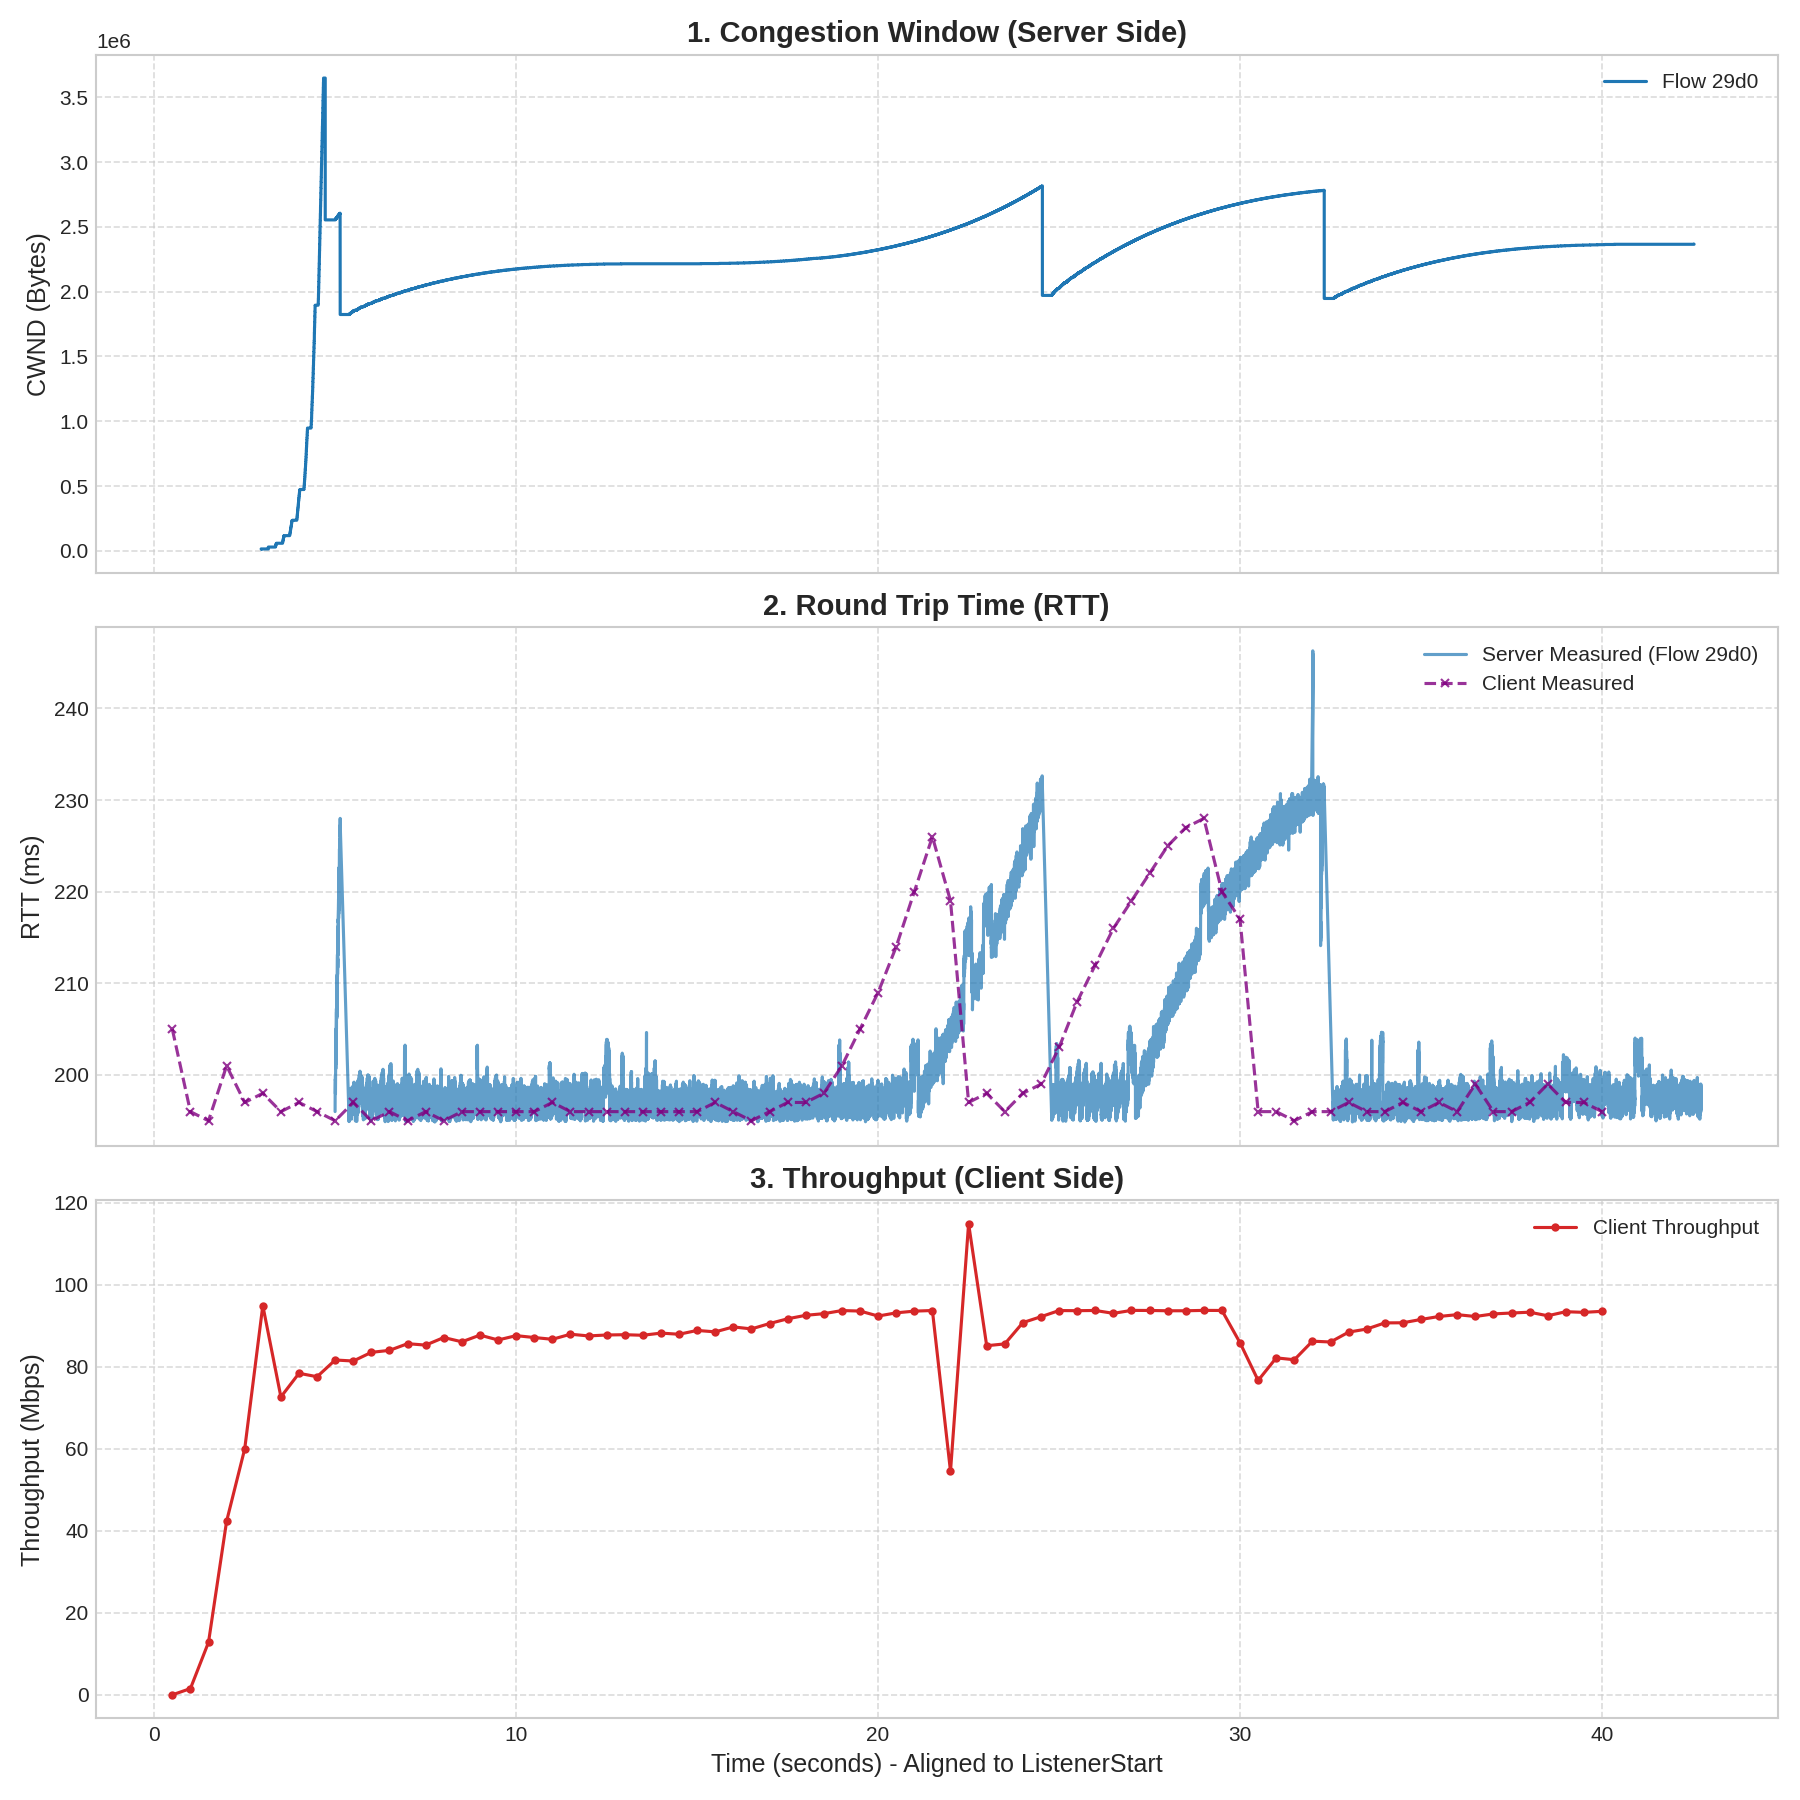
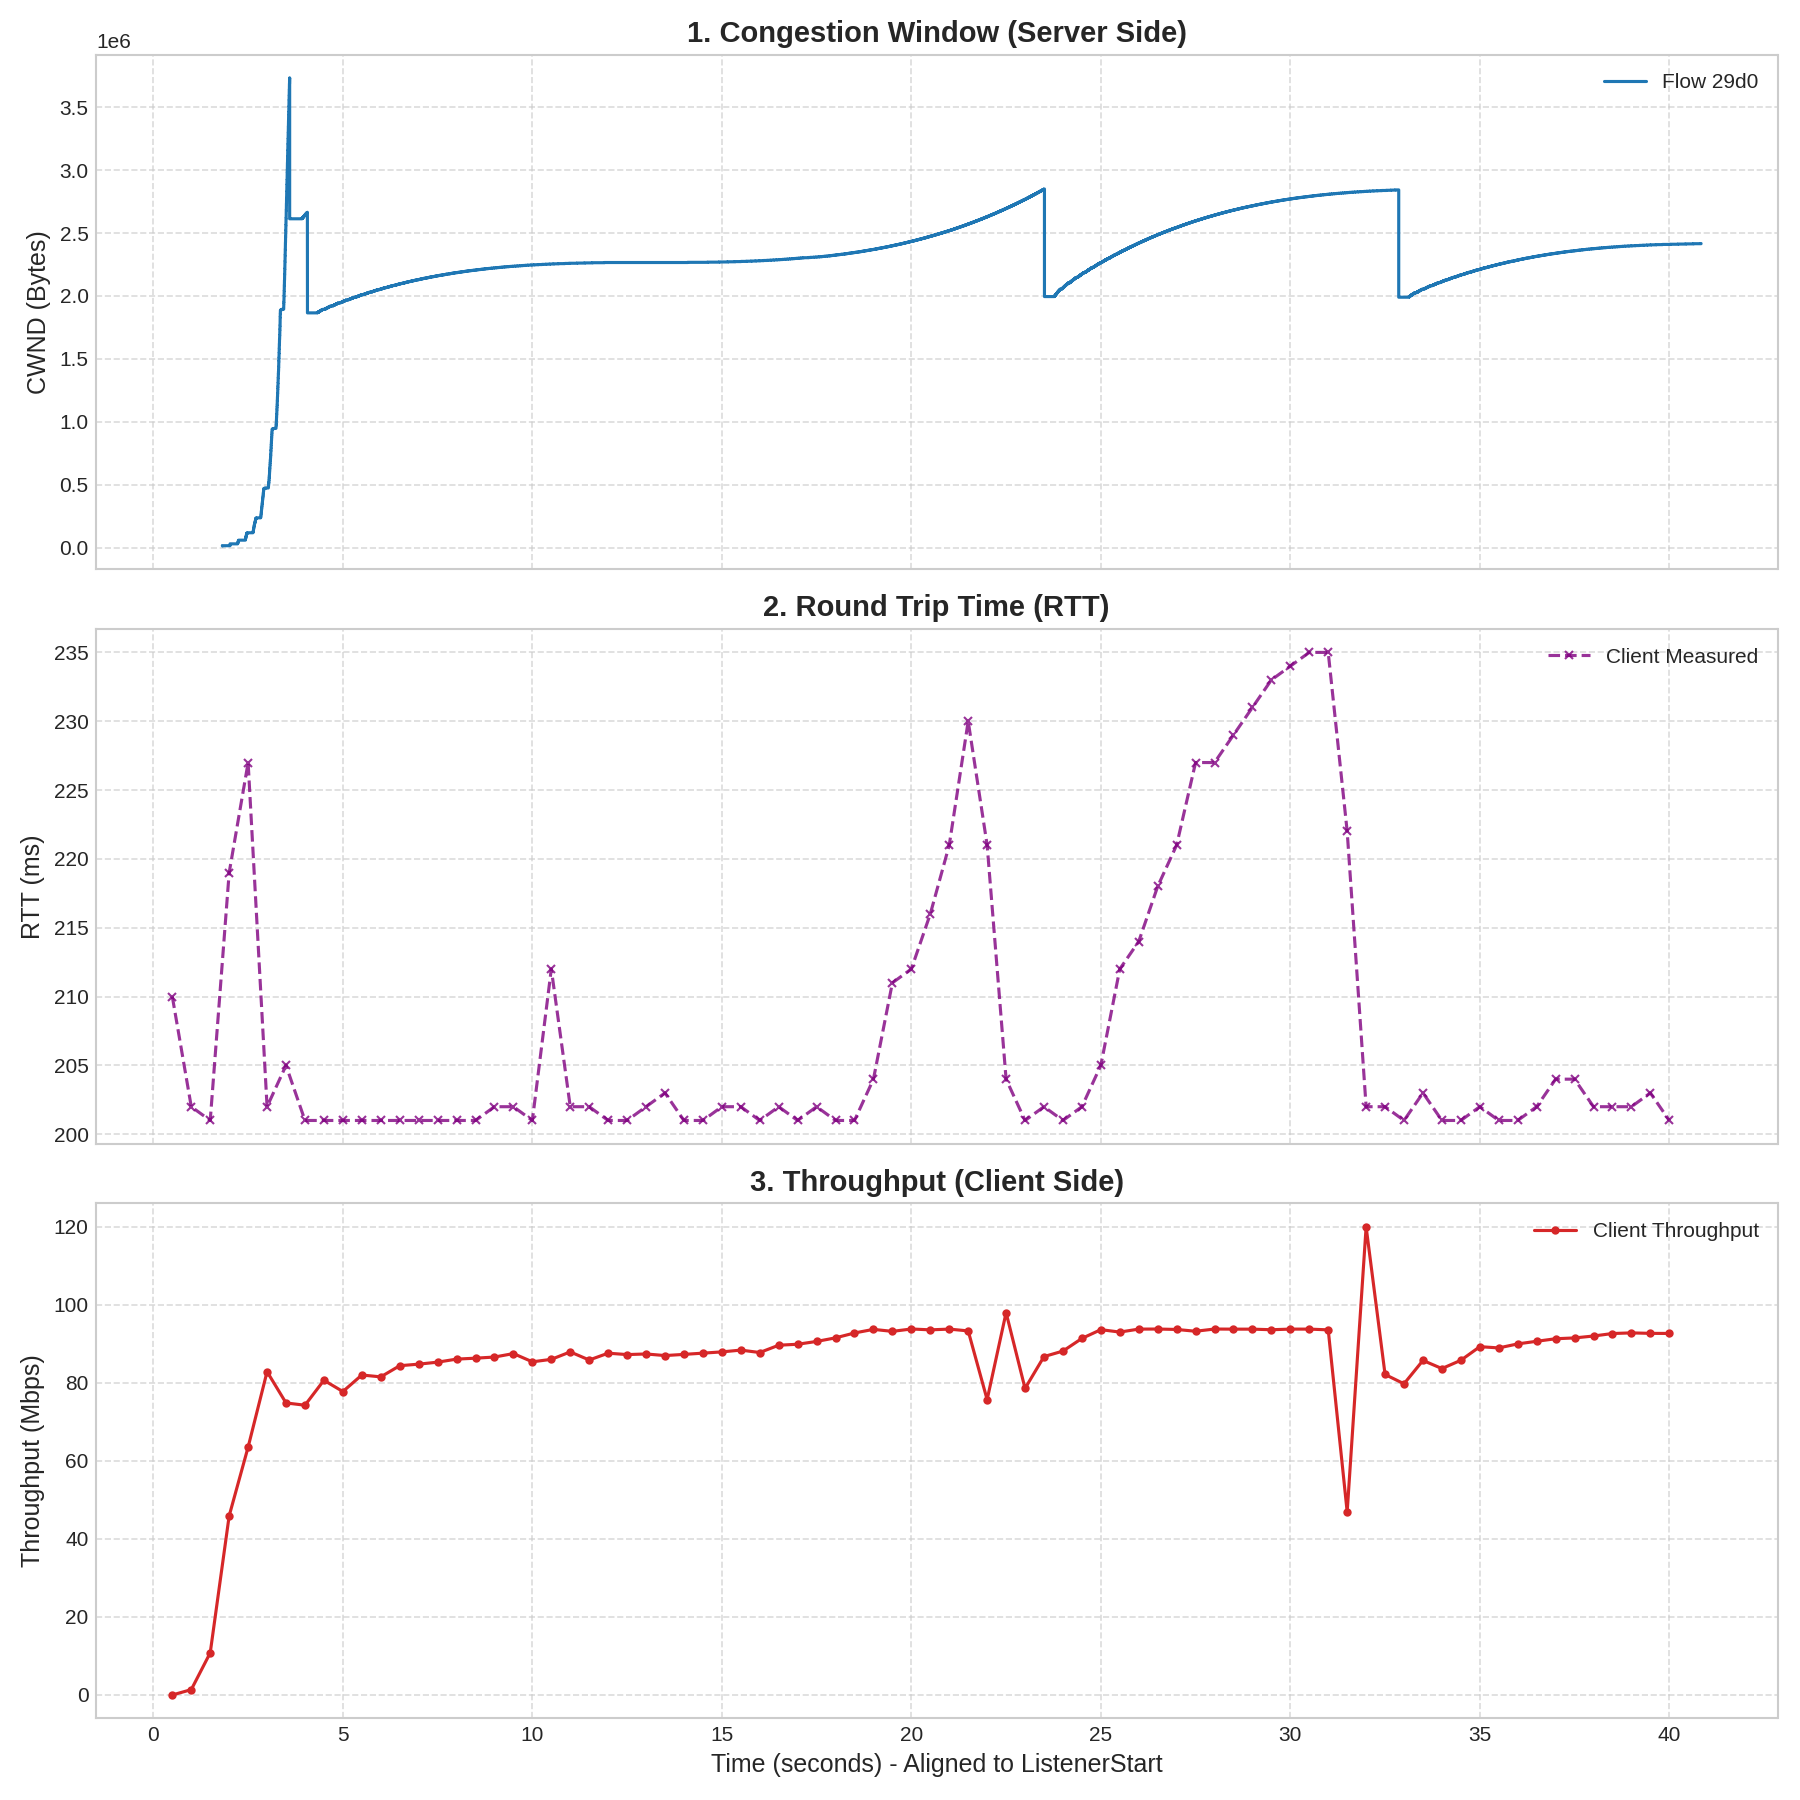
elasticity min modify

diff --git a/src/core/cubicprobe.c b/src/core/cubicprobe.c
@@ -1,7 +1,6 @@
 /*
-    CubicBoost V11: Adaptive Threshold Fix
-    - Problem Fix: Veto was too sensitive to standing queues.
-    - Solution: Uses SmoothedRTT instead of MinRTT for local congestion detection.
+    CubicBoost V12.1: Bootstrap Acceleration & Robust Elasticity
+    - Fix: Undeclared 'Connection' identifier compilation error.
 */
 
 #include "precomp.h"
@@ -16,8 +15,7 @@
 #define TEN_TIMES_C_CUBIC 4     
 
 #define PROBE_SENSITIVITY_GAMMA 4       
-// [수정] 노이즈 마진을 2ms -> 5ms로 완화하여 민감도 낮춤
-#define PROBE_MIN_NOISE_MARGIN_US 5000  
+#define PROBE_MIN_NOISE_MARGIN_US 5000  // 5ms margin
 
 // =========================================================================
 // Helper Functions
@@ -77,10 +75,7 @@ CubicProbePktsAcked(
         }
     }
     
-    // 2. Statistical Veto Logic (Improved for LEO)
-    // 기존 문제: MinRTT는 너무 오래된(낮은) 값이라, 큐가 조금만 차도 Veto가 걸림.
-    // 해결: Path->SmoothedRtt(SRTT)를 사용하여 "최근 평균"보다 튀는지를 감지함.
-    
+    // 2. Statistical Veto Logic (Adaptive Threshold)
     CubicProbe->RttVariance = Path->RttVariance; 
 
     uint64_t NoiseMargin = PROBE_SENSITIVITY_GAMMA * CubicProbe->RttVariance;
@@ -88,8 +83,6 @@ CubicProbePktsAcked(
         NoiseMargin = PROBE_MIN_NOISE_MARGIN_US;
     }
 
-    // [핵심 변경] 기준점을 MinRttUs 대신 SmoothedRtt로 변경
-    // SRTT가 없으면 MinRtt 사용
     uint64_t BaselineRtt = (Path->SmoothedRtt > 0) ? Path->SmoothedRtt : CubicProbe->MinRttUs;
     uint64_t CongestionThreshold = BaselineRtt + NoiseMargin;
 
@@ -101,7 +94,6 @@ CubicProbePktsAcked(
     }
 
     // [LOG] RTT Debug
-    // SRTT와 Threshold를 함께 출력하여 Veto 원인 파악
     printf("[CubicProbe][%p][%.3fms] RTT Check: Curr=%.3fms, SRTT=%.3fms, Thresh=%.3fms, Veto=%d\n",
         (void*)Connection,
         (double)AckEvent->TimeNow / 1000.0,
@@ -110,10 +102,14 @@ CubicProbePktsAcked(
         (double)CongestionThreshold / 1000.0,
         CubicProbe->IsQueueBuilding);
 
-    // 3. Elasticity Calculation
+    // 3. Elasticity Calculation (Improved Batching)
     CubicProbe->BatchBytesAcked += AckEvent->NumRetransmittableBytes;
     
-    if (CubicProbe->BatchBytesAcked >= DatagramPayloadLength) {
+    // BatchThreshold: 약 1/8 CWND (너무 작으면 DeltaCwnd가 0이 됨)
+    uint32_t BatchThreshold = Cubic->CongestionWindow / 8;
+    if (BatchThreshold < DatagramPayloadLength * 2) BatchThreshold = DatagramPayloadLength * 2;
+
+    if (CubicProbe->BatchBytesAcked >= BatchThreshold) {
         
         uint64_t TimeNow = AckEvent->TimeNow;
         uint64_t TimeDelta = CxPlatTimeDiff64(CubicProbe->PrevTime, TimeNow);
@@ -123,25 +119,26 @@ CubicProbePktsAcked(
 
         if (CubicProbe->PrevBandwidth > 0 && CubicProbe->PrevCwnd > 0) {
             
-            double DeltaBwPct = (double)((int64_t)CurrentBandwidth - (int64_t)CubicProbe->PrevBandwidth) / (double)CubicProbe->PrevBandwidth;
-            double DeltaCwndPct = (double)((int64_t)CurrentCwnd - (int64_t)CubicProbe->PrevCwnd) / (double)CubicProbe->PrevCwnd;
+            // CWND가 실제로 변했을 때만 탄력성을 계산 (0으로 나누기 방지)
+            if (CurrentCwnd > CubicProbe->PrevCwnd) {
+                double DeltaBwPct = (double)((int64_t)CurrentBandwidth - (int64_t)CubicProbe->PrevBandwidth) / (double)CubicProbe->PrevBandwidth;
+                double DeltaCwndPct = (double)((int64_t)CurrentCwnd - (int64_t)CubicProbe->PrevCwnd) / (double)CubicProbe->PrevCwnd;
 
-            if (DeltaCwndPct > 0.001) { 
-                double NewElasticity = DeltaBwPct / DeltaCwndPct;
-                if (NewElasticity > 1.0) NewElasticity = 1.0;
-                if (NewElasticity < 0.0) NewElasticity = 0.0;
+                if (DeltaCwndPct > 0.0001) { 
+                    double NewElasticity = DeltaBwPct / DeltaCwndPct;
+                    if (NewElasticity > 1.0) NewElasticity = 1.0;
+                    if (NewElasticity < 0.0) NewElasticity = 0.0;
 
-                // EWMA
-                CubicProbe->CurrentElasticity = (0.75 * CubicProbe->CurrentElasticity) + (0.25 * NewElasticity);
+                    // EWMA
+                    CubicProbe->CurrentElasticity = (0.75 * CubicProbe->CurrentElasticity) + (0.25 * NewElasticity);
 
-                // [LOG] Elasticity Update
-                if (CubicProbe->CurrentElasticity > 0.1) {
-                    printf("[CubicProbe][%p][%.3fms] E-Update: E=%.2f (Raw=%.2f)\n",
-                        (void*)Connection, (double)TimeNow/1000.0, CubicProbe->CurrentElasticity, NewElasticity);
+                    printf("[CubicProbe][%p][%.3fms] E-Update: E=%.2f (Raw=%.2f, dCwnd=%.4f)\n",
+                        (void*)Connection, (double)TimeNow/1000.0, CubicProbe->CurrentElasticity, NewElasticity, DeltaCwndPct);
                 }
-            }
+            } 
         }
 
+        // 스냅샷 갱신
         CubicProbe->PrevBandwidth = CurrentBandwidth;
         CubicProbe->PrevCwnd = CurrentCwnd;
         CubicProbe->PrevTime = TimeNow;
@@ -207,17 +204,25 @@ CubicProbeUpdate(
         N_cubic = 100 * (Cubic->CongestionWindow / DatagramPayloadLength);
     }
 
-    // --- Part 2: Physics Blending ---
+    // --- Part 2: Physics Blending & Bootstrap ---
     double E = CubicProbe->CurrentElasticity;
     
-    // [수정] Veto가 걸려도 E가 높으면 0.1 정도는 남겨둬서 최소한의 가속 가능성 열어두기 (실험용)
-    // 정석: if (CubicProbe->IsQueueBuilding) E = 0.0;
-    // 완화: Veto 상태면 E를 절반으로 깎음
     if (CubicProbe->IsQueueBuilding) {
-        E = 0.0; // 안전을 위해 우선 차단. 만약 그래도 안되면 여기를 주석 처리하세요.
+        // [Veto] 큐가 쌓이면 가속 중단 (순정 CUBIC)
+        E = 0.0;
+    } 
+    else {
+        // [Bootstrap Logic]
+        // 큐가 쌓이지 않았는데(Veto=0) E가 0이라면, 아직 탐색을 안 해본 것임.
+        // 강제로 E를 높여서 가속을 유발해야, CWND가 늘어나고, 그래야 Elasticity가 측정됨.
+        if (E < 0.5) {
+            E = 0.5; // "최소한 2배 가속" (N_target을 절반으로)
+        }
     }
 
+    // Blending Formula
     double BlendedTarget = (1.0 - E) * (double)N_cubic + (E * 1.0);
+    
     *AckTarget = (uint32_t)BlendedTarget;
     if (*AckTarget < 1) *AckTarget = 1;
 
@@ -243,14 +248,14 @@ CubicProbeIncreaseWindow(
     uint32_t AckedSegments = (AckEvent->NumRetransmittableBytes + DatagramPayloadLength - 1) / DatagramPayloadLength;
     CubicProbe->AckCountForGrowth += AckedSegments;
 
+    // [핵심] AckTarget만큼 ACK가 모이면 CWND 1 증가
     if (CubicProbe->AckCountForGrowth >= AckTarget) {
         uint32_t PrevCwnd = Cubic->CongestionWindow;
         
         Cubic->CongestionWindow += DatagramPayloadLength;
         CubicProbe->AckCountForGrowth -= AckTarget;
 
-        // [LOG] CWND Update
-        printf("[CubicProbe][%p][%.3fms] CWND Update: %u -> %u (Target=%u, E=%.2f)\n",
+        printf("[CubicProbe][%p][%.3fms] CWND Update (Avoidance/Boost): %u -> %u (Target=%u, E=%.2f)\n",
             (void*)Connection, 
             (double)AckEvent->TimeNow / 1000.0, 
             PrevCwnd, 
@@ -279,6 +284,7 @@ _IRQL_requires_max_(DISPATCH_LEVEL)
 void CubicProbeCongestionControlReset(_In_ QUIC_CONGESTION_CONTROL* Cc, _In_ BOOLEAN FullReset) {
     QUIC_CONGESTION_CONTROL_CUBICPROBE* CubicProbe = &Cc->CubicProbe;
     QUIC_CONGESTION_CONTROL_CUBIC* Cubic = &CubicProbe->Cubic;
+    // [Fix] Connection 선언 추가
     QUIC_CONNECTION* Connection = QuicCongestionControlGetConnection(Cc);
     const QUIC_PATH* Path = &Connection->Paths[0];
     const uint16_t DatagramPayloadLength = QuicPathGetDatagramPayloadSize(Path);
@@ -536,7 +542,9 @@ void CubicProbeCongestionControlInitialize(_In_ QUIC_CONGESTION_CONTROL* Cc, _In
     *Cc = QuicCongestionControlCubicProbe;
     QUIC_CONGESTION_CONTROL_CUBICPROBE* CubicProbe = &Cc->CubicProbe;
     QUIC_CONGESTION_CONTROL_CUBIC* Cubic = &CubicProbe->Cubic;
-    const QUIC_PATH* Path = &QuicCongestionControlGetConnection(Cc)->Paths[0];
+    // [Fix] Declare Connection here
+    QUIC_CONNECTION* Connection = QuicCongestionControlGetConnection(Cc);
+    const QUIC_PATH* Path = &Connection->Paths[0];
     const uint16_t DatagramPayloadLength = QuicPathGetDatagramPayloadSize(Path);
 
     Cubic->SlowStartThreshold = UINT32_MAX;
@@ -551,5 +559,5 @@ void CubicProbeCongestionControlInitialize(_In_ QUIC_CONGESTION_CONTROL* Cc, _In
     CubicProbeResetPhysicsState(CubicProbe);
     
     printf("[CubicProbe][%p][%.3fms] Initialized. InitialCWND=%u\n", 
-        (void*)QuicCongestionControlGetConnection(Cc), (double)CxPlatTimeUs64()/1000.0, Cubic->CongestionWindow);
+        (void*)Connection, (double)CxPlatTimeUs64()/1000.0, Cubic->CongestionWindow);
 }
